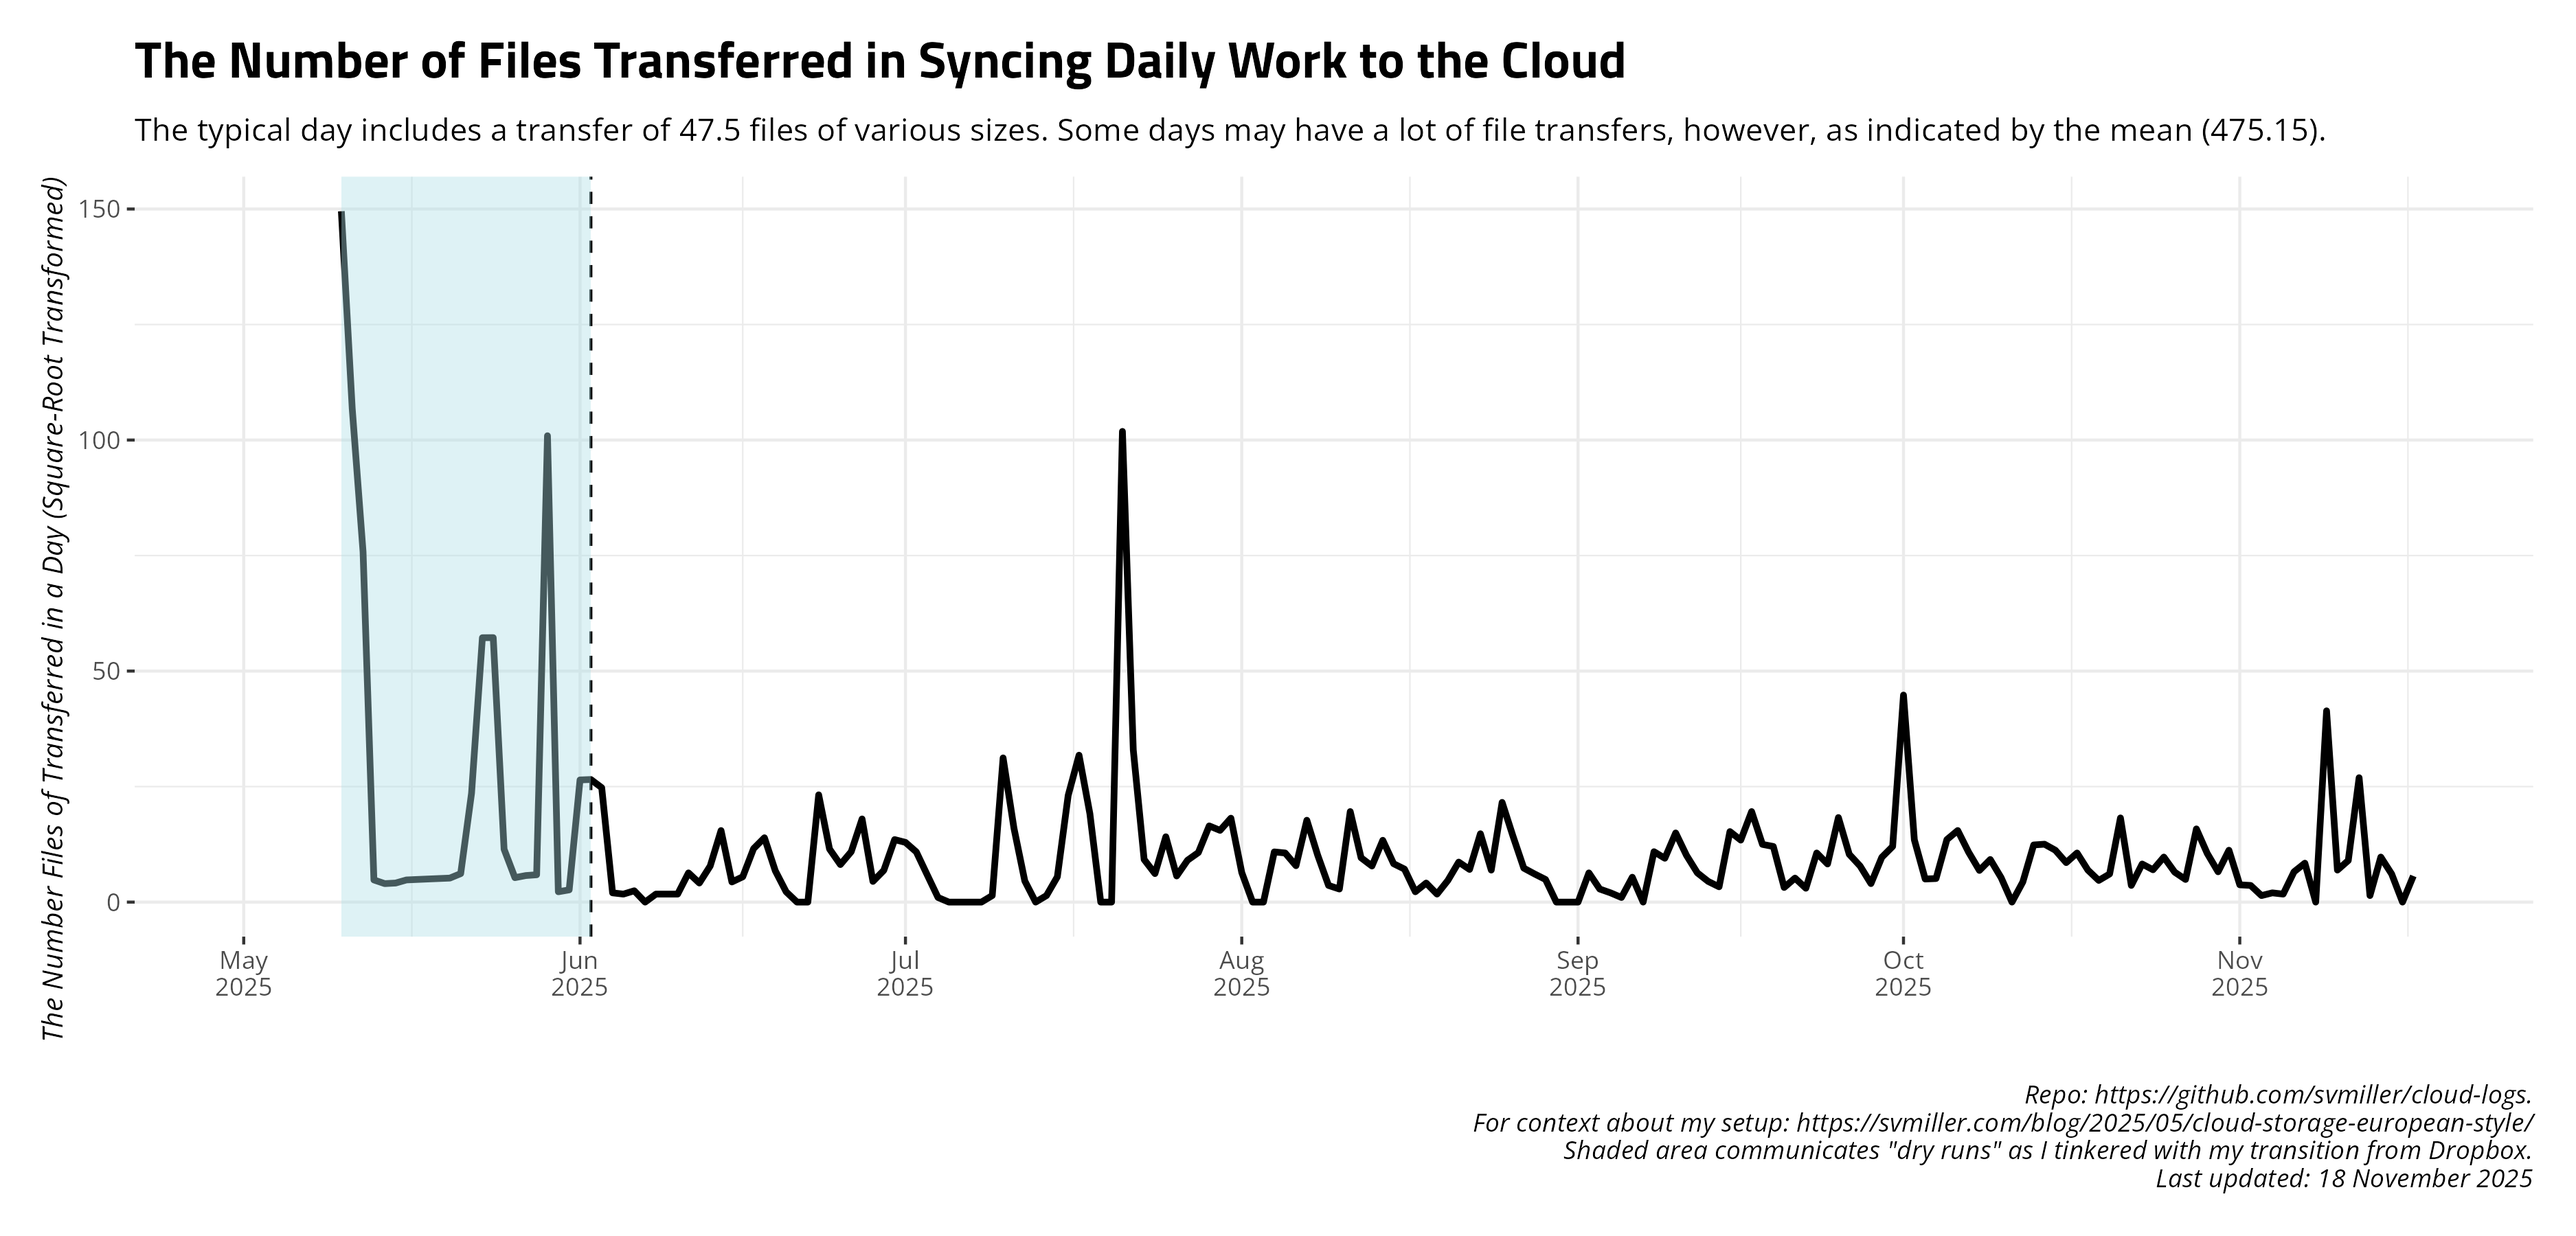
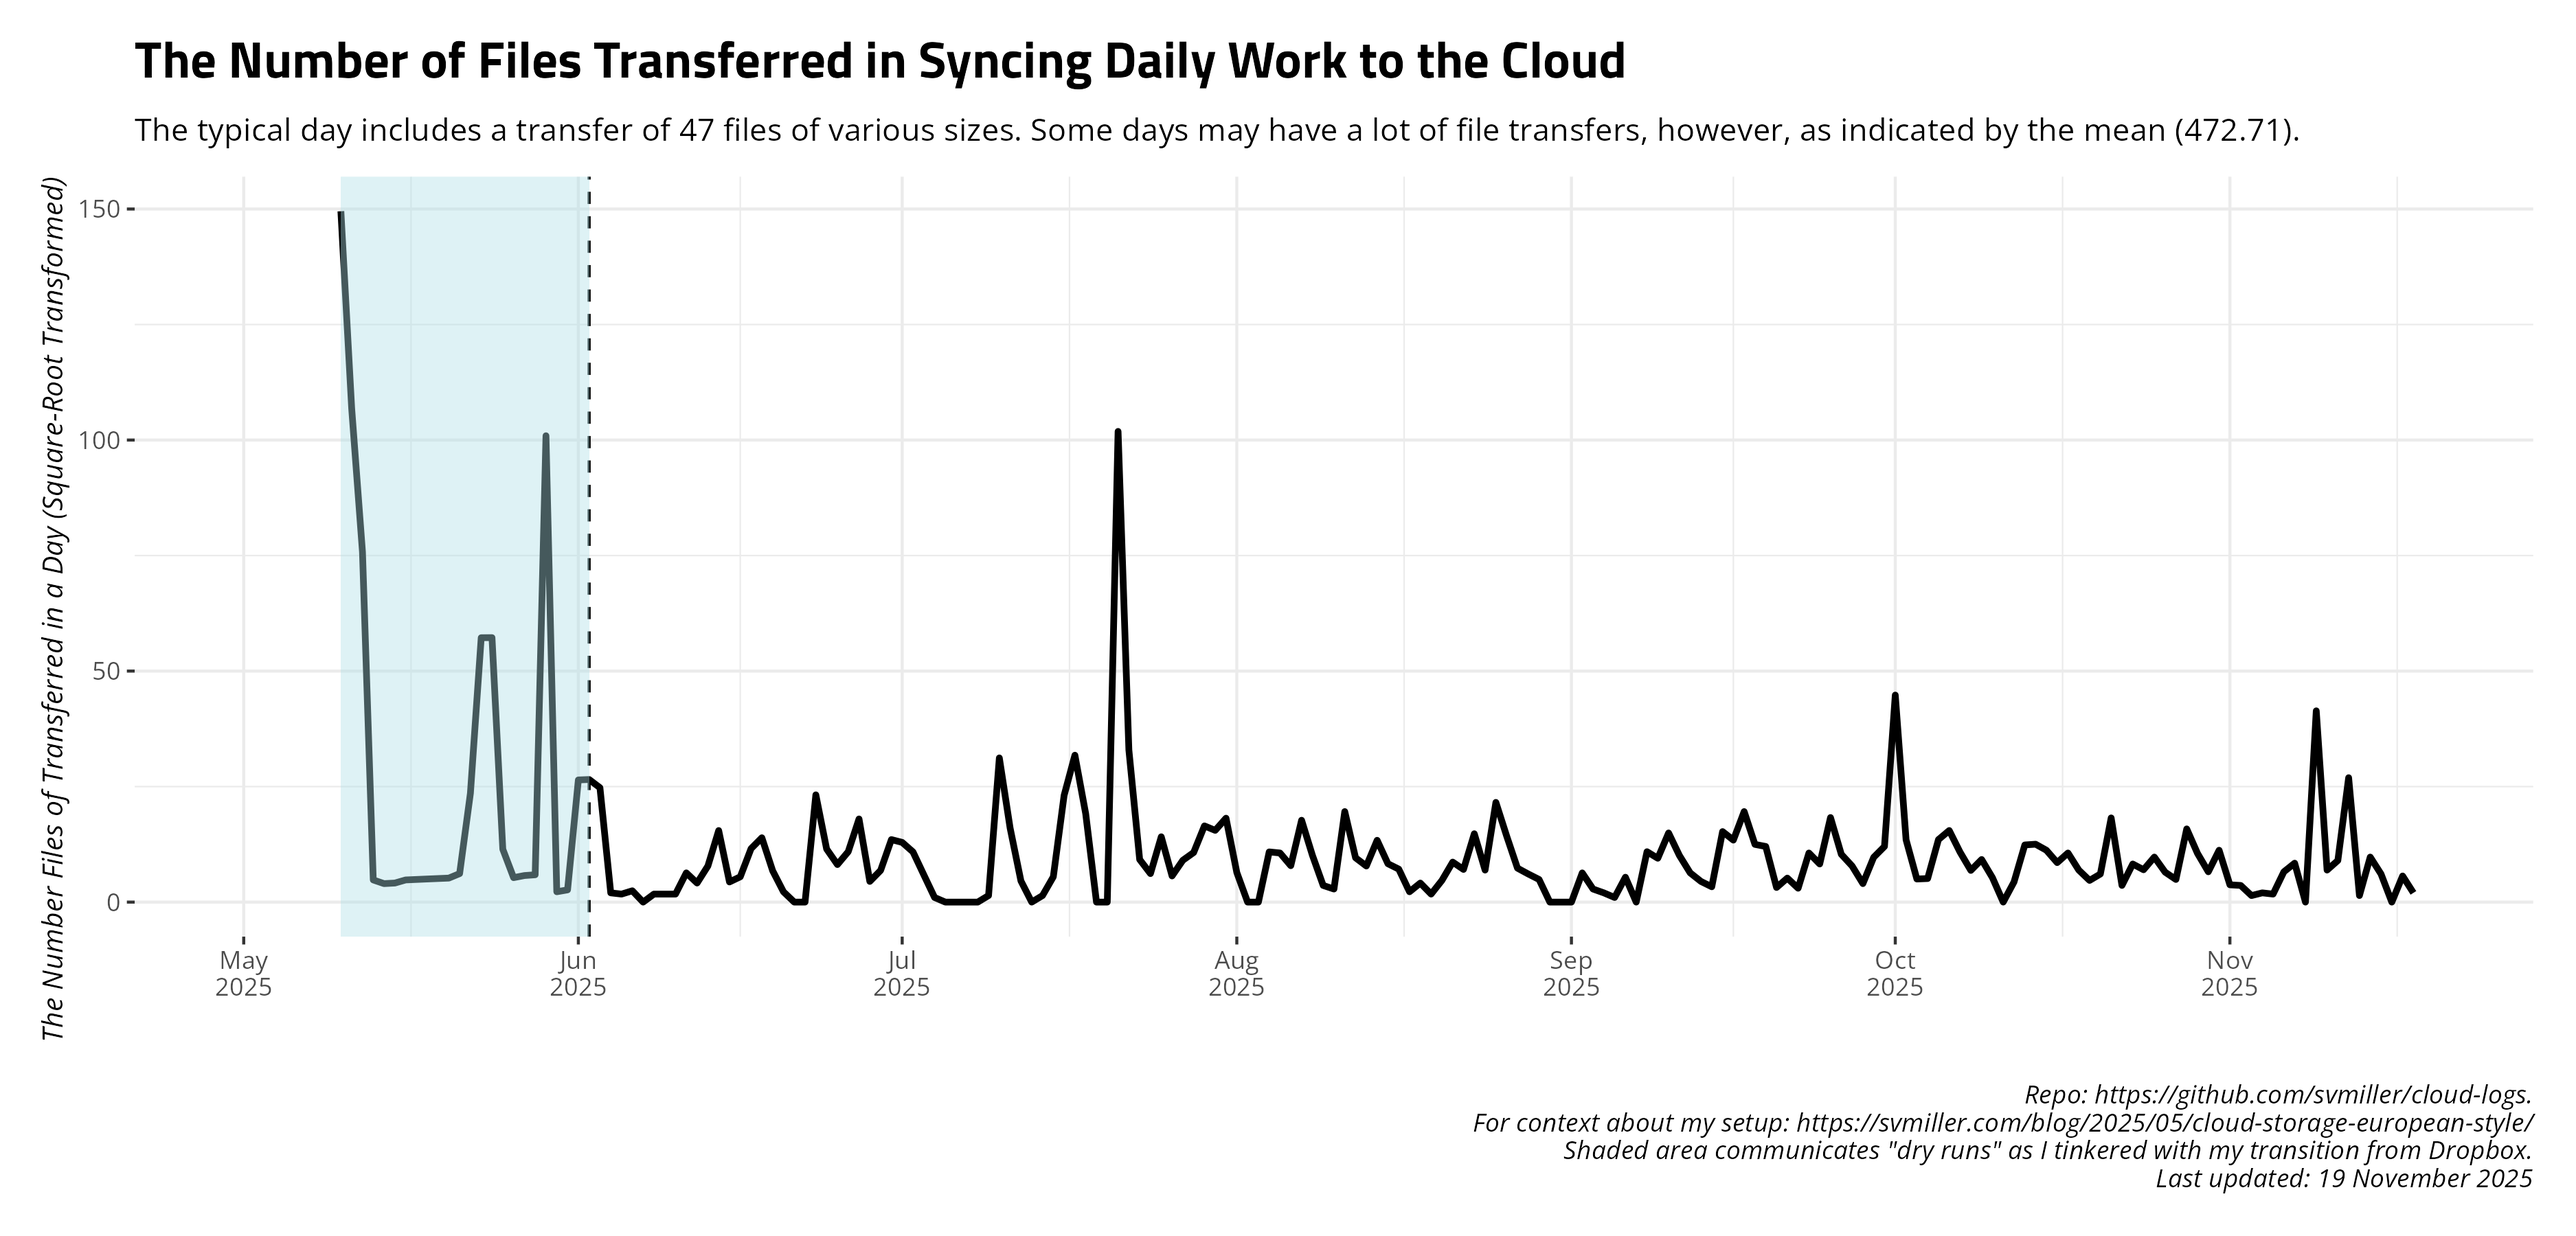
Date: 2025-11-19 09:00:17. Hi mom!

diff --git a/README.md b/README.md
@@ -27,17 +27,17 @@ and uploads to Github.
     #> # A tibble: 14 × 4
     #>    date       ftransfer stransfer   elapsed
     #>    <date>         <dbl> <chr>       <chr>  
-    #>  1 2025-11-04         4 5.939 MiB   4m54.7s
-    #>  2 2025-11-05         3 17.768 MiB  4m38.5s
-    #>  3 2025-11-06        43 444.626 MiB 4m49.4s
-    #>  4 2025-11-07        71 8.049 MiB   5m11.1s
-    #>  5 2025-11-08         0 <NA>        4m52.9s
-    #>  6 2025-11-09      1714 143.133 MiB 5m4.7s 
-    #>  7 2025-11-10        48 1.490 MiB   4m52.7s
-    #>  8 2025-11-11        81 1.673 MiB   5m1.9s 
-    #>  9 2025-11-12       725 18.854 MiB  5m33.3s
-    #> 10 2025-11-13         2 1.737 MiB   7m23.6s
-    #> 11 2025-11-14        95 1.137 MiB   4m44.7s
-    #> 12 2025-11-15        37 820.913 KiB 4m56.9s
-    #> 13 2025-11-16         0 <NA>        4m59.2s
-    #> 14 2025-11-17        32 359.220 KiB 4m54.7s
+    #>  1 2025-11-05         3 17.768 MiB  4m38.5s
+    #>  2 2025-11-06        43 444.626 MiB 4m49.4s
+    #>  3 2025-11-07        71 8.049 MiB   5m11.1s
+    #>  4 2025-11-08         0 <NA>        4m52.9s
+    #>  5 2025-11-09      1714 143.133 MiB 5m4.7s 
+    #>  6 2025-11-10        48 1.490 MiB   4m52.7s
+    #>  7 2025-11-11        81 1.673 MiB   5m1.9s 
+    #>  8 2025-11-12       725 18.854 MiB  5m33.3s
+    #>  9 2025-11-13         2 1.737 MiB   7m23.6s
+    #> 10 2025-11-14        95 1.137 MiB   4m44.7s
+    #> 11 2025-11-15        37 820.913 KiB 4m56.9s
+    #> 12 2025-11-16         0 <NA>        4m59.2s
+    #> 13 2025-11-17        32 359.220 KiB 4m54.7s
+    #> 14 2025-11-18         4 1.671 MiB   4m58.9s
